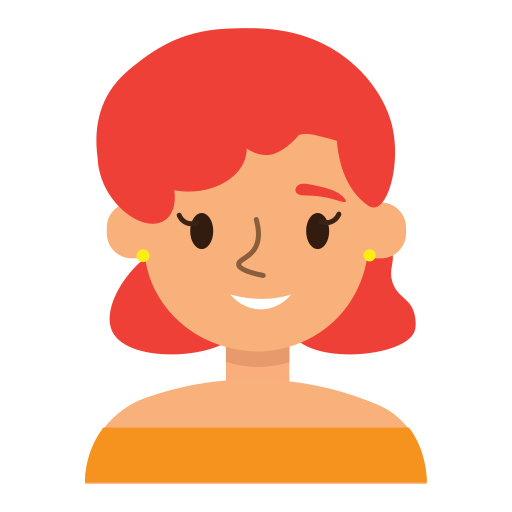
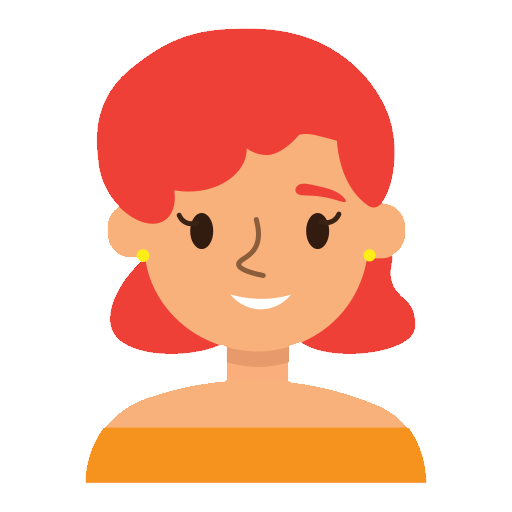
Create button fo change main profile photo

Changed region(s): [[0.5625, 0.7188, 0.5938, 0.75], [0.25, 0.5, 0.2812, 0.5312]]

diff --git a/src/components/Profile/ProfileContainer.jsx b/src/components/Profile/ProfileContainer.jsx
@@ -1,7 +1,7 @@
 import React from "react";
 import { connect } from "react-redux";
 import Profile from "./Profile";
-import {getUserProfile, getStatus, updateStatus} from "../../redux/profile-reducer"
+import {getUserProfile, getStatus, updateStatus, savePhoto} from "../../redux/profile-reducer"
 import {	useLocation, useNavigate,	useParams,} from "react-router-dom";
 import { compose } from "redux";
 import { withAuthRedirect } from "../../hoc/withAuthRedirect";
@@ -23,7 +23,7 @@ export function withRouter(Component) {
 
 class ProfileContainer extends React.Component {
 
-	componentDidMount() {
+	refreshProfile() {
 		let userId = this.props.router.params.userId;
 		if (!userId) {
 			userId = this.props.authUserId;
@@ -35,9 +35,25 @@ class ProfileContainer extends React.Component {
 		this.props.getStatus(userId);
 	}
 
+	componentDidMount() {
+		this.refreshProfile()
+	}
+
+	componentDidUpdate(prevProps, prevState, snapshot){
+		if (this.props.router.params.userId !== prevProps.router.params.userId) {
+		this.refreshProfile()
+		}
+	}
+
+
 	render() {
 		return (
-			<Profile {...this.props} profile={this.props.profile} status={this.props.status} updateStatus={this.props.updateStatus}/>
+			<Profile {...this.props}
+			isOwner={!this.props.router.params.userId} 
+			profile={this.props.profile} 
+			status={this.props.status} 
+			updateStatus={this.props.updateStatus}
+			savePhoto={this.props.savePhoto}/>
 		)
 	}
 }
@@ -54,6 +70,6 @@ const mapStateToProps = (state) => {
 
 export default compose(
 	withAuthRedirect,
-	connect(mapStateToProps, {getUserProfile, getStatus, updateStatus}),
+	connect(mapStateToProps, {getUserProfile, getStatus, updateStatus, savePhoto}),
 	withRouter,
 ) (ProfileContainer);

diff --git a/src/redux/profile-reducer.js b/src/redux/profile-reducer.js
@@ -3,6 +3,7 @@ import { profileAPI} from "../API/api";
 const ADD_POST = 'ADD_POST';
 const SET_USER_PROFILE = "SET_USER_PROFILE";
 const SET_USER_STATUS = "SET_USER_STATUS";
+const SAVE_PHOTO_SUCCESS = "SAVE_PHOTO_SUCCESS";
 
 const initialState = {
 		postsMessage: [
@@ -39,6 +40,8 @@ const profileReducer = (state = initialState, action) => {
 				return {...state, profile: action.profile};
 		case SET_USER_STATUS:
 			return {...state, status: action.status};
+		case SAVE_PHOTO_SUCCESS:
+			return {...state, profile: {...state.profile, photos: action.photos}};
 		default:
 			return state;
 	}
@@ -47,6 +50,7 @@ const profileReducer = (state = initialState, action) => {
 export const addPostActionCreator = (newPostText) => ({type: ADD_POST, newPostText});
 export const setUserProfile = (profile) => ({type: SET_USER_PROFILE, profile});
 export const setStatus= (status) => ({type: SET_USER_STATUS, status});
+export const savePhotoSuccess= (photos) => ({type: SAVE_PHOTO_SUCCESS, photos});
 
 export const getUserProfile = (userId) => async (dispatch) => {
 const response = await profileAPI.getProfile(userId)
@@ -63,5 +67,12 @@ const response = await profileAPI.updateStatus(status)
 	dispatch(setStatus(status));
 	}
 };
+
+export const savePhoto = (file) => async (dispatch) => {
+	const response = await profileAPI.savePhoto(file)
+		if (response.data.resultCode === 0) {
+		dispatch(savePhotoSuccess(response.data.data.photos));
+		}
+	};
 
 export default profileReducer;

diff --git a/src/components/Profile/Info/Info.jsx b/src/components/Profile/Info/Info.jsx
@@ -3,18 +3,30 @@ import Preloader from "../../common/Preloader/Preloader"
 import user_photo  from "./../../../img/user_icon.png"
 import InfoStatusWithHooks from "./InfoStatusWithHooks";
 
-const Info = ({profile, status, updateStatus}) => {
+const Info = ({profile, status, updateStatus, isOwner, savePhoto }) => {
 
 
 	if (!profile) {
 		return <Preloader />
 	}
+
+	// const onMainPhotoSelected = (even) => {
+	// 	console.log(even.target);
+	// 	if (even.target.file.length > 0) {
+	// 		savePhoto(even.target.file[0])
+	// 	};
+	// }
 	
 	return (
     <div className={style.info}>
       <div className={style.profile}>
         <div className={style.photos}>
-          <img alt="photoUser" src={profile.photos.large || user_photo}></img>
+          <img alt="photoUser" src={profile.photos.large || user_photo} />
+			 { isOwner && 
+			 <label className={style.input_file}>
+			 <input type={"file"} onChange ={(e)=>{ savePhoto(e.target.files[0]) }}/>
+			 Choose the file for upload new photo 
+			 </label> }
         </div>
         <div className={style.text}>
           <div>

diff --git a/src/components/Profile/Info/Info.module.css b/src/components/Profile/Info/Info.module.css
@@ -17,12 +17,46 @@ h3 {
 }
 
 .photos {
+	display: inline-block;
 	height: 300px;
+	background-color: #fff;
 }
 
 .photos img {
 	border-radius: 8px;
 	height: 100%;
+	background-color: #fff;
+}
+
+.photos input {
+	display: none;
+	height: 30px;
+	font-size: 12px;
+	margin: 0;
+}
+
+label.input_file {
+	display: block;
+	text-align: center;
+	width: 240px;
+	font-size: 13px;
+	color: #fff;
+	background-color: #00A4F7;
+	padding: 10px;
+	margin: 0 auto;
+	height: 14px;
+	line-height: 14px;
+	border-radius: 15px;
+	cursor: pointer;
+}
+
+.input-file input[type=file] {
+	position: absolute;
+	z-index: -1;
+	opacity: 0;
+	display: block;
+	width: 0;
+	height: 0;
 }
 
 .text {
@@ -32,7 +66,7 @@ h3 {
 	justify-content: space-between;
 	padding: 15px;
 	text-align: center;
-	width: 290px;
+	width: 270px;
 	text-transform: capitalize;
 	height: 200px;
 	font-size: 16px;
@@ -57,7 +91,7 @@ h3 {
 	display: flex;
 	justify-content: center;
 	align-items: center;
-	margin-top: 20px;
+	margin-top: 70px;
 	height: 40px;
 	border: 1px solid #6B757D;
 	background-color: #EDF2F6;

diff --git a/src/API/api.js b/src/API/api.js
@@ -3,6 +3,9 @@ import axios from "axios";
 const instance = axios.create({
 	withCredentials: true,
 	baseURL: "https://social-network.samuraijs.com/api/1.0/",
+	headers: {
+		"API-KEY": "46de6c55-53db-4e06-b9fc-98f05054e167"
+	}
 })
 
 export const usersAPI = {
@@ -27,6 +30,11 @@ export const profileAPI = {
 	},
 	updateStatus(status) {
 		return instance.put(`profile/status`, {status: status})
+	},
+	savePhoto(photoFile) {
+		const formData = new FormData();
+		formData.append("image", photoFile);
+		return instance.put(`profile/photo`, formData)
 	}
 };
 

diff --git a/src/components/Profile/Profile.jsx b/src/components/Profile/Profile.jsx
@@ -10,7 +10,11 @@ const Profile = (props) => {
 	return (
 		<div className={style.wrapper}>
 		<Friends store={props.profilePage}/>
-      <Info profile={props.profile} status={props.status} updateStatus={props.updateStatus}/>
+      <Info savePhoto={props.savePhoto} 
+		isOwner={props.isOwner} 
+		profile={props.profile} 
+		status={props.status} 
+		updateStatus={props.updateStatus}/>
 		<CreatePostContainer />
       <Post store={props.profilePage}/>
 	 </div>
